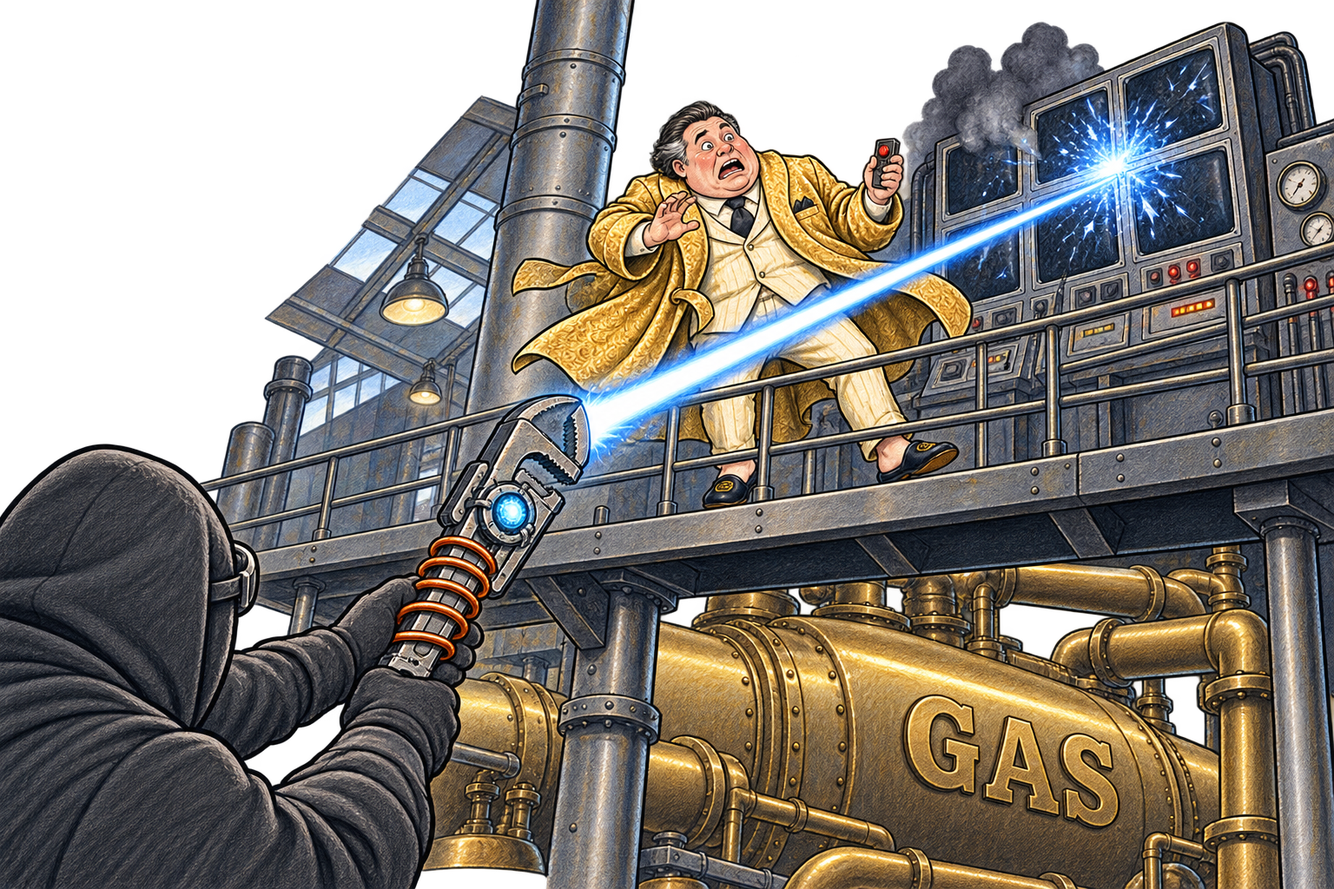
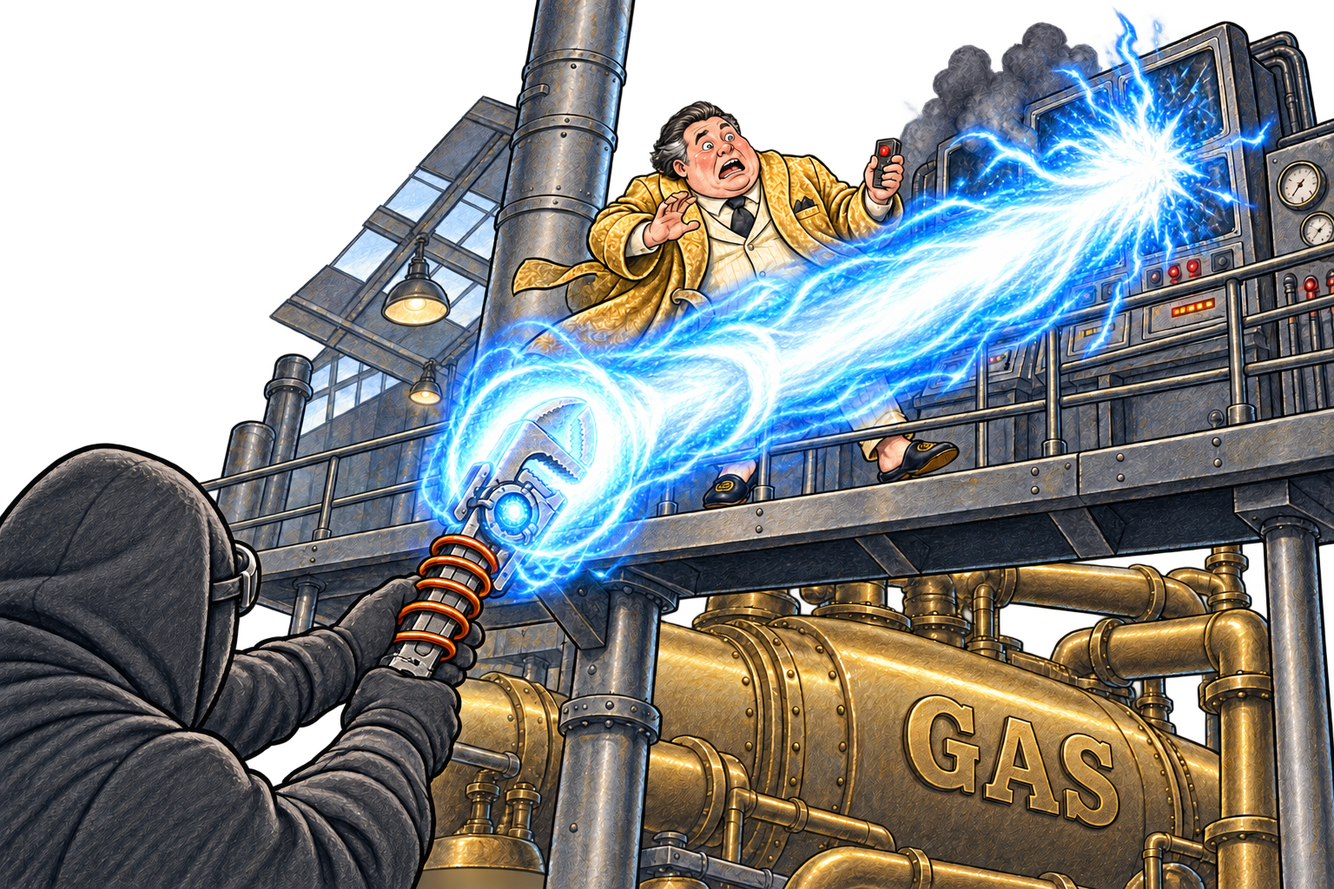
Refine Precision energy blast and record artwork approval

Changed region(s): [[0.0, 0.0, 1.0, 1.0], [0.0625, 0.75, 0.0938, 0.7812], [0.0, 0.5312, 0.0312, 0.5625]]

diff --git a/artwork/tech-hero/2026-09-23/index.html b/artwork/tech-hero/2026-09-23/index.html
@@ -1,5 +1,5 @@
 <!doctype html><html lang="en"><head><meta charset="utf-8"><meta name="viewport" content="width=device-width,initial-scale=1"><title>Tech Hero artwork · Paths of Wonder</title><style>
 *{box-sizing:border-box}html{background:#e5dac4;color:#242a30}body{margin:0;font:17px/1.55 system-ui,-apple-system,sans-serif}header,main,.end{max-width:1480px;margin:auto;padding:32px clamp(16px,4vw,56px)}header{padding-bottom:12px}h1,h2{font-family:Georgia,serif;line-height:1.15;font-weight:500}h1{font-size:clamp(32px,5vw,54px);margin:8px 0 20px}h2{font-size:28px;margin:8px 0}.intro{max-width:830px}.eyebrow,.label span{font-size:13px;letter-spacing:.06em;text-transform:uppercase;color:#635334}a{color:#314e46;text-underline-offset:4px}nav,.controls{display:flex;flex-wrap:wrap;gap:8px;margin:20px 0}nav a,button,footer a{min-height:44px;display:inline-flex;align-items:center;padding:9px 13px;border-radius:8px}nav a,button{border:1px solid #b6a88d;text-decoration:none;background:#f5efdf;font:inherit;color:inherit;cursor:pointer}button[aria-pressed=true]{background:#314e46;color:#fff}a:focus-visible,button:focus-visible{outline:3px solid #96612b;outline-offset:3px}main{display:grid;grid-template-columns:repeat(2,minmax(0,1fr));gap:24px;padding-top:12px}article{background:#f4eddb;border:1px solid #c6b99d;border-radius:10px;overflow:hidden;scroll-margin-top:16px}.label{padding:20px 24px 4px}.label p{font-size:14px;color:#655c48;margin:8px 0}.page{background:#f4eddb;padding:8px 16px}.art{display:block}img{display:block;width:100%;height:auto;max-height:620px;object-fit:contain}.context{display:none;font:20px/1.65 Georgia,serif;padding:8px 18px;white-space:pre-line}.reading .context{display:block}.reading .spot .art{max-width:430px;margin:auto}.large .context{font-size:25px}footer{display:flex;justify-content:space-between;flex-wrap:wrap;padding:8px 12px 14px}.end{color:#635334} @media(max-width:700px){main{grid-template-columns:1fr}.label{padding:18px 18px 4px}.page{padding:8px}.context{padding:8px 14px}img{max-height:none}}@media print{nav,.controls,footer{display:none}main{display:block}article{break-inside:avoid;margin:20px 0}}
-</style></head><body><header id="top"><div class="eyebrow">Paths of Wonder · Tech Hero · Artwork review</div><h1>The Can Opener, illustrated</h1><div class="intro"><p>Seventeen story illustrations and two color tool references. The latest revisions are collected here on warm parchment.</p><p>The hero’s face, skin, and hair stay hidden. The Can Opener’s energy blade is off when carried or used as a tool; the Stompers scene has it lying flat on the workbench.</p><p>These are review drafts. Suggested paragraph placements use your exact current text and do not modify the app or stories.</p></div><div class="controls"><button id="context-toggle" aria-pressed="false">Show story context</button><button id="type-toggle" aria-pressed="false">Larger reading text</button><a href="PLACEMENTS.md">Placement notes</a></div><nav aria-label="Illustrations"><a href="#01-garage-lab">The garage lab</a><a href="#02-old-sandwich">The very old sandwich</a><a href="#03-launcher-mishap">More power. Probably.</a><a href="#04-wheel-pop">THWOOM!</a><a href="#05-shield-cover-me">Shield Cover Me</a><a href="#06-asher-portable">Asher Portable</a><a href="#07-magnet-mishap">Magnet boot testing</a><a href="#08-stompers">The Stompers</a><a href="#09-up-the-wall">Up the wall</a><a href="#10-full-loadout">Full loadout</a><a href="#11-old-cannery">The old cannery</a><a href="#12-under-the-awning">Like a bat</a><a href="#13-max-office">An office fit for Max</a><a href="#14-max-on-stage">Max Grabs takes the stage</a><a href="#15-bot-pileup">Forklifts and rocket feet</a><a href="#16-precision">Precision</a><a href="#17-neighborhood-safe">The good kind of quiet</a><a href="#18-can-opener-active">The Can Opener — active</a><a href="#19-can-opener-tool-mode">The Can Opener — tool mode</a></nav></header><main><article id="01-garage-lab" class="opening"><div class="label"><span>opening</span><h2>The garage lab</h2><p>Scene 001 · Getting Home · after paragraph 7</p></div><div class="page"><div class="context before"><p>The voice comes from your computer: your trusty AI assistant and friend, Asher.</p></div><a class="art" href="01-garage-lab.png" aria-label="Open full-size The garage lab"><img src="01-garage-lab.png" alt="A garage workbench filled with tools, salvaged parts, a backpack, and Asher’s computer." loading="lazy"></a><div class="context after"><p>“Well, Asher, I got some storage drives, scrap metal I can melt down for other uses, a few chips, and the real win here…”</p></div></div><footer><a href="01-garage-lab.png" download>Download PNG</a><a href="#top">Back to top</a></footer></article><article id="02-old-sandwich" class="spot"><div class="label"><span>spot</span><h2>The very old sandwich</h2><p>Scene 008 · The Axe Blade · after paragraph 4</p></div><div class="page"><div class="context before"><p>The bot spins around, confused, and the cabinet door on its belly flaps open. A screwdriver falls out. Then a tape measure. Then a very old sandwich. That’s when you see your opening: a panel on its back, right between the shoulders.</p></div><a class="art" href="02-old-sandwich.png" aria-label="Open full-size The very old sandwich"><img src="02-old-sandwich.png" alt="A moldy sandwich falls from the Construction Bot’s open tool cabinet with a PLOP." loading="lazy"></a><div class="context after"><p>One more swing. The blade cuts the panel wide open, sparks fly, and the bot’s foot thrusters sputter out. It sits down with a big THUNK, like it’s taking a nap.</p></div></div><footer><a href="02-old-sandwich.png" download>Download PNG</a><a href="#top">Back to top</a></footer></article><article id="03-launcher-mishap" class="spot"><div class="label"><span>spot</span><h2>More power. Probably.</h2><p>Scene 021 · More Power · after paragraph 7</p></div><div class="page"><div class="context before"><p>You stand there with an empty wrist brace and your hair sticking straight up.</p></div><a class="art" href="03-launcher-mishap.png" aria-label="Open full-size More power. Probably."><img src="03-launcher-mishap.png" alt="A rock launcher is stuck backward in the wall; a gloved wrist has an empty brace." loading="lazy"></a><div class="context after"><p>“Ok,” you say. “Less power.”</p></div></div><footer><a href="03-launcher-mishap.png" download>Download PNG</a><a href="#top">Back to top</a></footer></article><article id="04-wheel-pop" class="spot"><div class="label"><span>spot</span><h2>THWOOM!</h2><p>Scene 026 · Heavier Than Expected · after paragraph 7</p></div><div class="page"><div class="context before"><p>The rock smashes into the front left wheel, and it pops right off its axle. The Load-Bot tips forward, spins in a slow, sad circle, and crashes onto its face with a BOOM that sets off a car alarm.</p></div><a class="art" href="04-wheel-pop.png" aria-label="Open full-size THWOOM!"><img src="04-wheel-pop.png" alt="The smiling Load-Bot loses a wheel beside the market, with a THWOOM." loading="lazy"></a><div class="context after"><p>It’s down, but it’s not out. Its forklift arms are still flailing, and your coil is empty. But it can’t reach behind itself.</p></div></div><footer><a href="04-wheel-pop.png" download>Download PNG</a><a href="#top">Back to top</a></footer></article><article id="05-shield-cover-me" class="feature"><div class="label"><span>feature</span><h2>Shield Cover Me</h2><p>Scene 033 · Shield Cover Me · after paragraph 3</p></div><div class="page"><div class="context before"><p>The stick skids off the light in a shower of sparks. The shield flickers, but it holds! The bot hits it again, and again, and you push forward behind the shield one step at a time. But you can’t get around it, and you can’t exactly fight with a shield and a thumb.</p></div><a class="art" href="05-shield-cover-me.png" aria-label="Open full-size Shield Cover Me"><img src="05-shield-cover-me.png" alt="A gloved thumb holds a loose shield emitter in place as a Security Bot strikes the blue shield." loading="lazy"></a><div class="context after"><p>“ASHER! SHIELD! COVER ME!”</p></div></div><footer><a href="05-shield-cover-me.png" download>Download PNG</a><a href="#top">Back to top</a></footer></article><article id="06-asher-portable" class="opening"><div class="label"><span>opening</span><h2>Asher Portable</h2><p>Scene 041 · Miniaturizing Asher · after paragraph 6</p></div><div class="page"><div class="context before"><p>“Welcome to the team, Asher Portable.”</p></div><a class="art" href="06-asher-portable.png" aria-label="Open full-size Asher Portable"><img src="06-asher-portable.png" alt="Asher Portable: goggles with a clip-on display, camera, earbud, and yellow-bulb signal booster." loading="lazy"></a><div class="context after"><p>“That is simply a description of what I am, sir.”</p></div></div><footer><a href="06-asher-portable.png" download>Download PNG</a><a href="#top">Back to top</a></footer></article><article id="07-magnet-mishap" class="spot"><div class="label"><span>spot</span><h2>Magnet boot testing</h2><p>Scene 044 · Magnet Boot Testing · after paragraph 9</p></div><div class="page"><div class="context before"><p>A wrench slides across the workbench and sticks to your left ankle. Then a screwdriver. Then a whole handful of bolts.</p></div><a class="art" href="07-magnet-mishap.png" aria-label="Open full-size Magnet boot testing"><img src="07-magnet-mishap.png" alt="Magnet boots stick to the refrigerator and floor plate, with tools clinging to one ankle." loading="lazy"></a><div class="context after"><p>“You are collecting tools at an impressive rate, sir.”</p></div></div><footer><a href="07-magnet-mishap.png" download>Download PNG</a><a href="#top">Back to top</a></footer></article><article id="08-stompers" class="feature"><div class="label"><span>feature</span><h2>The Stompers</h2><p>Scene 045 · The Stompers · after paragraph 9</p></div><div class="page"><div class="context before"><p>“The Stompers.”</p></div><a class="art" href="08-stompers.png" aria-label="Open full-size The Stompers"><img src="08-stompers.png" alt="The fully covered hero bounces toward the workbench; the powered-down Can Opener lies flat on the wood." loading="lazy"></a><div class="context after"><p>A pause.</p></div></div><footer><a href="08-stompers.png" download>Download PNG</a><a href="#top">Back to top</a></footer></article><article id="09-up-the-wall" class="spot"><div class="label"><span>spot</span><h2>Up the wall</h2><p>Scene 047 · Up the Wall · after paragraph 7</p></div><div class="page"><div class="context before"><p>Clunk. Clunk. Clunk. You walk up the wall one heavy step at a time, staying in the corner where the bot can’t lean out far enough to aim at you. It knows you’re out there somewhere, so it keeps zapping the mailbox just in case.</p></div><a class="art" href="09-up-the-wall.png" aria-label="Open full-size Up the wall"><img src="09-up-the-wall.png" alt="The fully covered hero climbs a steel wall using magnetic boots, with the inactive wrench on their belt." loading="lazy"></a><div class="context after"><p>You reach the top and peek over the edge. The bot has its back to you, skate wheels locked, leaning out over the front of the roof.</p></div></div><footer><a href="09-up-the-wall.png" download>Download PNG</a><a href="#top">Back to top</a></footer></article><article id="10-full-loadout" class="feature"><div class="label"><span>feature</span><h2>Full loadout</h2><p>Scene 049 · Full Loadout · after paragraph 7</p></div><div class="page"><div class="context before"><p>You look out over {world_name} from the roof. The Can Opener, The Wrist Wrock-It, Shield Cover Me, Asher Portable, The Stompers…every single one of them got you up here.</p></div><a class="art" href="10-full-loadout.png" aria-label="Open full-size Full loadout"><img src="10-full-loadout.png" alt="The fully covered hero rests above the neighborhood with all their inventions and a blue-eyed Security Bot." loading="lazy"></a><div class="context after"><p>The bot’s visor goes dark.</p></div></div><footer><a href="10-full-loadout.png" download>Download PNG</a><a href="#top">Back to top</a></footer></article><article id="11-old-cannery" class="feature"><div class="label"><span>feature</span><h2>The old cannery</h2><p>Scene 053 · A Destination · after paragraph 6</p></div><div class="page"><div class="context before"><p>GRABS AWESOME STRUCTURES. MAKING YOUR NEIGHBORHOOD MINE! The word “MINE” has been crossed out by hand, and “BETTER” is written above it. Under that, in gold letters two feet tall: GAS. WE BLOW YOU AWAY!</p></div><a class="art" href="11-old-cannery.png" aria-label="Open full-size The old cannery"><img src="11-old-cannery.png" alt="The fenced cannery has a rooftop antenna, trucks of broken robots, and gold GAS signs." loading="lazy"></a><div class="context after"><p>You stare at it for a long moment.</p></div></div><footer><a href="11-old-cannery.png" download>Download PNG</a><a href="#top">Back to top</a></footer></article><article id="12-under-the-awning" class="spot"><div class="label"><span>spot</span><h2>Like a bat</h2><p>Scene 054 · Drone Spotted · after paragraph 11</p></div><div class="page"><div class="context before"><p>You catch it with two fingers. Way, WAY too close.</p></div><a class="art" href="12-under-the-awning.png" aria-label="Open full-size Like a bat"><img src="12-under-the-awning.png" alt="The fully covered hero uses magnetic boots beneath an awning as a surveillance drone passes." loading="lazy"></a><div class="context after"><p>So it isn’t just a signal. Somebody is watching the whole neighborhood…and now you know his name.</p></div></div><footer><a href="12-under-the-awning.png" download>Download PNG</a><a href="#top">Back to top</a></footer></article><article id="13-max-office" class="feature"><div class="label"><span>feature</span><h2>An office fit for Max</h2><p>Scene 056 · The Side Window · after paragraph 6</p></div><div class="page"><div class="context before"><p>“Sir, there is a computer on that desk, and it is unlocked. There is a sticky note on the screen. It says ‘Password: password.’”</p></div><a class="art" href="13-max-office.png" aria-label="Open full-size An office fit for Max"><img src="13-max-office.png" alt="Max’s oversized office has a painting of him shaking hands with himself and a password note." loading="lazy"></a><div class="context after"><p>“He didn’t even need it. He left himself logged in.”</p></div></div><footer><a href="13-max-office.png" download>Download PNG</a><a href="#top">Back to top</a></footer></article><article id="14-max-on-stage" class="feature"><div class="label"><span>feature</span><h2>Max Grabs takes the stage</h2><p>Scene 058 · The Man in the Shiny Suit · after paragraph 21</p></div><div class="page"><div class="context before"><p>Standing behind the stage, still as statues, are two Security Bots with steady red eyes. One of them is giving the crowd a thumbs-up.</p></div><a class="art" href="14-max-on-stage.png" aria-label="Open full-size Max Grabs takes the stage"><img src="14-max-on-stage.png" alt="Max Grabs grins on a stage with gold balloons, flying note cards, and Security Bots." loading="lazy"></a><div class="context after"><p>“That is him, sir,” Asher says in your ear.</p></div></div><footer><a href="14-max-on-stage.png" download>Download PNG</a><a href="#top">Back to top</a></footer></article><article id="15-bot-pileup" class="spot"><div class="label"><span>spot</span><h2>Forklifts and rocket feet</h2><p>Scene 060 · The Front Gate · after paragraph 7</p></div><div class="page"><div class="context before"><p>You pop one panel. You pop the other. Pull. Pull. Both sets of eyes fade to soft blue.</p></div><a class="art" href="15-bot-pileup.png" aria-label="Open full-size Forklifts and rocket feet"><img src="15-bot-pileup.png" alt="A Load-Bot and Construction Bot are tangled in a heap, their eyes now blue." loading="lazy"></a><div class="context after"><p>“Sorry, guys,” you say, and you mean it. “I’ll be back for you.”</p></div></div><footer><a href="15-bot-pileup.png" download>Download PNG</a><a href="#top">Back to top</a></footer></article><article id="16-precision" class="feature"><div class="label"><span>feature</span><h2>Precision</h2><p>Scene 066 · Precision · after paragraph 3</p></div><div class="page"><div class="context before"><p>Every terminal goes dark at once. The Robot Improver 3 makes a sound like a very large balloon letting go, and its lights go out row by row. On the roof, the antenna stops humming.</p></div><a class="art" href="16-precision.png" aria-label="Open full-size Precision"><img src="16-precision.png" alt="A precise blue-white discharge passes Max and strikes the cannery’s control terminals." loading="lazy"></a><div class="context after"><p>And all across {world_name}, in alleys and empty lots and the middle of Elm Street, every haywire robot slows down, lowers its arms, and stops. Hundreds of flickering red lights fade to a soft, calm blue.</p></div></div><footer><a href="16-precision.png" download>Download PNG</a><a href="#top">Back to top</a></footer></article><article id="17-neighborhood-safe" class="feature"><div class="label"><span>feature</span><h2>The good kind of quiet</h2><p>Scene 068 · Neighborhood Safe · after paragraph 5</p></div><div class="page"><div class="context before"><p>You nod back, and you keep walking.</p></div><a class="art" href="17-neighborhood-safe.png" aria-label="Open full-size The good kind of quiet"><img src="17-neighborhood-safe.png" alt="A child pats a peaceful robot, Mrs. Ruiz salutes, and the fully covered hero walks home." loading="lazy"></a><div class="context after"><p>You pass the top of Main Street. Mr. Lin’s bench is still gone. There are four bolts in the sidewalk where it used to be, and nothing else.</p></div></div><footer><a href="17-neighborhood-safe.png" download>Download PNG</a><a href="#top">Back to top</a></footer></article><article id="18-can-opener-active" class="reference"><div class="label"><span>reference</span><h2>The Can Opener — active</h2><p>Scene 005 · Building The Can Opener · after paragraph 11</p></div><div class="page"><div class="context before"><p>The wrench head shifts with a sharp mechanical click, and a crackling energy blade snaps out along the side of the head like an axe made of lightning.</p></div><a class="art" href="18-can-opener-active.png" aria-label="Open full-size The Can Opener — active"><img src="18-can-opener-active.png" alt="The Can Opener in active mode: steel wrench, copper coils, a blue power core, and an energy axe blade." loading="lazy"></a><div class="context after"><p>You stare at it.</p></div></div><footer><a href="18-can-opener-active.png" download>Download PNG</a><a href="#top">Back to top</a></footer></article><article id="19-can-opener-tool-mode" class="reference"><div class="label"><span>reference</span><h2>The Can Opener — tool mode</h2><p>Continuity reference · powered-down tool</p></div><div class="page"><a class="art" href="19-can-opener-tool-mode.png" aria-label="Open full-size The Can Opener — tool mode"><img src="19-can-opener-tool-mode.png" alt="The Can Opener in tool mode: steel jaws, copper coils, a dark core, and no deployed blade." loading="lazy"></a></div><footer><a href="19-can-opener-tool-mode.png" download>Download PNG</a><a href="#top">Back to top</a></footer></article></main><div class="end">Tap an image for its full-size PNG. <a href="README.md">Production notes</a> · <a href="prompts.json">Prompt set</a></div><script>
+</style></head><body><header id="top"><div class="eyebrow">Paths of Wonder · Tech Hero · Artwork review</div><h1>The Can Opener, illustrated</h1><div class="intro"><p>Seventeen story illustrations and two color tool references. The latest revisions are collected here on warm parchment.</p><p>The hero’s face, skin, and hair stay hidden. The Can Opener’s energy blade is off when carried or used as a tool; the Stompers scene has it lying flat on the workbench.</p><p>These are review drafts. Suggested paragraph placements use your exact current text and do not modify the app or stories.</p></div><div class="controls"><button id="context-toggle" aria-pressed="false">Show story context</button><button id="type-toggle" aria-pressed="false">Larger reading text</button><a href="PLACEMENTS.md">Placement notes</a></div><nav aria-label="Illustrations"><a href="#01-garage-lab">The garage lab</a><a href="#02-old-sandwich">The very old sandwich</a><a href="#03-launcher-mishap">More power. Probably.</a><a href="#04-wheel-pop">THWOOM!</a><a href="#05-shield-cover-me">Shield Cover Me</a><a href="#06-asher-portable">Asher Portable</a><a href="#07-magnet-mishap">Magnet boot testing</a><a href="#08-stompers">The Stompers</a><a href="#09-up-the-wall">Up the wall</a><a href="#10-full-loadout">Full loadout</a><a href="#11-old-cannery">The old cannery</a><a href="#12-under-the-awning">Like a bat</a><a href="#13-max-office">An office fit for Max</a><a href="#14-max-on-stage">Max Grabs takes the stage</a><a href="#15-bot-pileup">Forklifts and rocket feet</a><a href="#16-precision">Precision</a><a href="#17-neighborhood-safe">The good kind of quiet</a><a href="#18-can-opener-active">The Can Opener — active</a><a href="#19-can-opener-tool-mode">The Can Opener — tool mode</a></nav></header><main><article id="01-garage-lab" class="opening"><div class="label"><span>opening</span><h2>The garage lab</h2><p>Scene 001 · Getting Home · after paragraph 7</p></div><div class="page"><div class="context before"><p>The voice comes from your computer: your trusty AI assistant and friend, Asher.</p></div><a class="art" href="01-garage-lab.png" aria-label="Open full-size The garage lab"><img src="01-garage-lab.png" alt="A garage workbench filled with tools, salvaged parts, a backpack, and Asher’s computer." loading="lazy"></a><div class="context after"><p>“Well, Asher, I got some storage drives, scrap metal I can melt down for other uses, a few chips, and the real win here…”</p></div></div><footer><a href="01-garage-lab.png" download>Download PNG</a><a href="#top">Back to top</a></footer></article><article id="02-old-sandwich" class="spot"><div class="label"><span>spot</span><h2>The very old sandwich</h2><p>Scene 008 · The Axe Blade · after paragraph 4</p></div><div class="page"><div class="context before"><p>The bot spins around, confused, and the cabinet door on its belly flaps open. A screwdriver falls out. Then a tape measure. Then a very old sandwich. That’s when you see your opening: a panel on its back, right between the shoulders.</p></div><a class="art" href="02-old-sandwich.png" aria-label="Open full-size The very old sandwich"><img src="02-old-sandwich.png" alt="A moldy sandwich falls from the Construction Bot’s open tool cabinet with a PLOP." loading="lazy"></a><div class="context after"><p>One more swing. The blade cuts the panel wide open, sparks fly, and the bot’s foot thrusters sputter out. It sits down with a big THUNK, like it’s taking a nap.</p></div></div><footer><a href="02-old-sandwich.png" download>Download PNG</a><a href="#top">Back to top</a></footer></article><article id="03-launcher-mishap" class="spot"><div class="label"><span>spot</span><h2>More power. Probably.</h2><p>Scene 021 · More Power · after paragraph 7</p></div><div class="page"><div class="context before"><p>You stand there with an empty wrist brace and your hair sticking straight up.</p></div><a class="art" href="03-launcher-mishap.png" aria-label="Open full-size More power. Probably."><img src="03-launcher-mishap.png" alt="A rock launcher is stuck backward in the wall; a gloved wrist has an empty brace." loading="lazy"></a><div class="context after"><p>“Ok,” you say. “Less power.”</p></div></div><footer><a href="03-launcher-mishap.png" download>Download PNG</a><a href="#top">Back to top</a></footer></article><article id="04-wheel-pop" class="spot"><div class="label"><span>spot</span><h2>THWOOM!</h2><p>Scene 026 · Heavier Than Expected · after paragraph 7</p></div><div class="page"><div class="context before"><p>The rock smashes into the front left wheel, and it pops right off its axle. The Load-Bot tips forward, spins in a slow, sad circle, and crashes onto its face with a BOOM that sets off a car alarm.</p></div><a class="art" href="04-wheel-pop.png" aria-label="Open full-size THWOOM!"><img src="04-wheel-pop.png" alt="The smiling Load-Bot loses a wheel beside the market, with a THWOOM." loading="lazy"></a><div class="context after"><p>It’s down, but it’s not out. Its forklift arms are still flailing, and your coil is empty. But it can’t reach behind itself.</p></div></div><footer><a href="04-wheel-pop.png" download>Download PNG</a><a href="#top">Back to top</a></footer></article><article id="05-shield-cover-me" class="feature"><div class="label"><span>feature</span><h2>Shield Cover Me</h2><p>Scene 033 · Shield Cover Me · after paragraph 3</p></div><div class="page"><div class="context before"><p>The stick skids off the light in a shower of sparks. The shield flickers, but it holds! The bot hits it again, and again, and you push forward behind the shield one step at a time. But you can’t get around it, and you can’t exactly fight with a shield and a thumb.</p></div><a class="art" href="05-shield-cover-me.png" aria-label="Open full-size Shield Cover Me"><img src="05-shield-cover-me.png" alt="A gloved thumb holds a loose shield emitter in place as a Security Bot strikes the blue shield." loading="lazy"></a><div class="context after"><p>“ASHER! SHIELD! COVER ME!”</p></div></div><footer><a href="05-shield-cover-me.png" download>Download PNG</a><a href="#top">Back to top</a></footer></article><article id="06-asher-portable" class="opening"><div class="label"><span>opening</span><h2>Asher Portable</h2><p>Scene 041 · Miniaturizing Asher · after paragraph 6</p></div><div class="page"><div class="context before"><p>“Welcome to the team, Asher Portable.”</p></div><a class="art" href="06-asher-portable.png" aria-label="Open full-size Asher Portable"><img src="06-asher-portable.png" alt="Asher Portable: goggles with a clip-on display, camera, earbud, and yellow-bulb signal booster." loading="lazy"></a><div class="context after"><p>“That is simply a description of what I am, sir.”</p></div></div><footer><a href="06-asher-portable.png" download>Download PNG</a><a href="#top">Back to top</a></footer></article><article id="07-magnet-mishap" class="spot"><div class="label"><span>spot</span><h2>Magnet boot testing</h2><p>Scene 044 · Magnet Boot Testing · after paragraph 9</p></div><div class="page"><div class="context before"><p>A wrench slides across the workbench and sticks to your left ankle. Then a screwdriver. Then a whole handful of bolts.</p></div><a class="art" href="07-magnet-mishap.png" aria-label="Open full-size Magnet boot testing"><img src="07-magnet-mishap.png" alt="Magnet boots stick to the refrigerator and floor plate, with tools clinging to one ankle." loading="lazy"></a><div class="context after"><p>“You are collecting tools at an impressive rate, sir.”</p></div></div><footer><a href="07-magnet-mishap.png" download>Download PNG</a><a href="#top">Back to top</a></footer></article><article id="08-stompers" class="feature"><div class="label"><span>feature</span><h2>The Stompers</h2><p>Scene 045 · The Stompers · after paragraph 9</p></div><div class="page"><div class="context before"><p>“The Stompers.”</p></div><a class="art" href="08-stompers.png" aria-label="Open full-size The Stompers"><img src="08-stompers.png" alt="The fully covered hero bounces toward the workbench; the powered-down Can Opener lies flat on the wood." loading="lazy"></a><div class="context after"><p>A pause.</p></div></div><footer><a href="08-stompers.png" download>Download PNG</a><a href="#top">Back to top</a></footer></article><article id="09-up-the-wall" class="spot"><div class="label"><span>spot</span><h2>Up the wall</h2><p>Scene 047 · Up the Wall · after paragraph 7</p></div><div class="page"><div class="context before"><p>Clunk. Clunk. Clunk. You walk up the wall one heavy step at a time, staying in the corner where the bot can’t lean out far enough to aim at you. It knows you’re out there somewhere, so it keeps zapping the mailbox just in case.</p></div><a class="art" href="09-up-the-wall.png" aria-label="Open full-size Up the wall"><img src="09-up-the-wall.png" alt="The fully covered hero climbs a steel wall using magnetic boots, with the inactive wrench on their belt." loading="lazy"></a><div class="context after"><p>You reach the top and peek over the edge. The bot has its back to you, skate wheels locked, leaning out over the front of the roof.</p></div></div><footer><a href="09-up-the-wall.png" download>Download PNG</a><a href="#top">Back to top</a></footer></article><article id="10-full-loadout" class="feature"><div class="label"><span>feature</span><h2>Full loadout</h2><p>Scene 049 · Full Loadout · after paragraph 7</p></div><div class="page"><div class="context before"><p>You look out over {world_name} from the roof. The Can Opener, The Wrist Wrock-It, Shield Cover Me, Asher Portable, The Stompers…every single one of them got you up here.</p></div><a class="art" href="10-full-loadout.png" aria-label="Open full-size Full loadout"><img src="10-full-loadout.png" alt="The fully covered hero rests above the neighborhood with all their inventions and a blue-eyed Security Bot." loading="lazy"></a><div class="context after"><p>The bot’s visor goes dark.</p></div></div><footer><a href="10-full-loadout.png" download>Download PNG</a><a href="#top">Back to top</a></footer></article><article id="11-old-cannery" class="feature"><div class="label"><span>feature</span><h2>The old cannery</h2><p>Scene 053 · A Destination · after paragraph 6</p></div><div class="page"><div class="context before"><p>GRABS AWESOME STRUCTURES. MAKING YOUR NEIGHBORHOOD MINE! The word “MINE” has been crossed out by hand, and “BETTER” is written above it. Under that, in gold letters two feet tall: GAS. WE BLOW YOU AWAY!</p></div><a class="art" href="11-old-cannery.png" aria-label="Open full-size The old cannery"><img src="11-old-cannery.png" alt="The fenced cannery has a rooftop antenna, trucks of broken robots, and gold GAS signs." loading="lazy"></a><div class="context after"><p>You stare at it for a long moment.</p></div></div><footer><a href="11-old-cannery.png" download>Download PNG</a><a href="#top">Back to top</a></footer></article><article id="12-under-the-awning" class="spot"><div class="label"><span>spot</span><h2>Like a bat</h2><p>Scene 054 · Drone Spotted · after paragraph 11</p></div><div class="page"><div class="context before"><p>You catch it with two fingers. Way, WAY too close.</p></div><a class="art" href="12-under-the-awning.png" aria-label="Open full-size Like a bat"><img src="12-under-the-awning.png" alt="The fully covered hero uses magnetic boots beneath an awning as a surveillance drone passes." loading="lazy"></a><div class="context after"><p>So it isn’t just a signal. Somebody is watching the whole neighborhood…and now you know his name.</p></div></div><footer><a href="12-under-the-awning.png" download>Download PNG</a><a href="#top">Back to top</a></footer></article><article id="13-max-office" class="feature"><div class="label"><span>feature</span><h2>An office fit for Max</h2><p>Scene 056 · The Side Window · after paragraph 6</p></div><div class="page"><div class="context before"><p>“Sir, there is a computer on that desk, and it is unlocked. There is a sticky note on the screen. It says ‘Password: password.’”</p></div><a class="art" href="13-max-office.png" aria-label="Open full-size An office fit for Max"><img src="13-max-office.png" alt="Max’s oversized office has a painting of him shaking hands with himself and a password note." loading="lazy"></a><div class="context after"><p>“He didn’t even need it. He left himself logged in.”</p></div></div><footer><a href="13-max-office.png" download>Download PNG</a><a href="#top">Back to top</a></footer></article><article id="14-max-on-stage" class="feature"><div class="label"><span>feature</span><h2>Max Grabs takes the stage</h2><p>Scene 058 · The Man in the Shiny Suit · after paragraph 21</p></div><div class="page"><div class="context before"><p>Standing behind the stage, still as statues, are two Security Bots with steady red eyes. One of them is giving the crowd a thumbs-up.</p></div><a class="art" href="14-max-on-stage.png" aria-label="Open full-size Max Grabs takes the stage"><img src="14-max-on-stage.png" alt="Max Grabs grins on a stage with gold balloons, flying note cards, and Security Bots." loading="lazy"></a><div class="context after"><p>“That is him, sir,” Asher says in your ear.</p></div></div><footer><a href="14-max-on-stage.png" download>Download PNG</a><a href="#top">Back to top</a></footer></article><article id="15-bot-pileup" class="spot"><div class="label"><span>spot</span><h2>Forklifts and rocket feet</h2><p>Scene 060 · The Front Gate · after paragraph 7</p></div><div class="page"><div class="context before"><p>You pop one panel. You pop the other. Pull. Pull. Both sets of eyes fade to soft blue.</p></div><a class="art" href="15-bot-pileup.png" aria-label="Open full-size Forklifts and rocket feet"><img src="15-bot-pileup.png" alt="A Load-Bot and Construction Bot are tangled in a heap, their eyes now blue." loading="lazy"></a><div class="context after"><p>“Sorry, guys,” you say, and you mean it. “I’ll be back for you.”</p></div></div><footer><a href="15-bot-pileup.png" download>Download PNG</a><a href="#top">Back to top</a></footer></article><article id="16-precision" class="feature"><div class="label"><span>feature</span><h2>Precision</h2><p>Scene 066 · Precision · after paragraph 3</p></div><div class="page"><div class="context before"><p>Every terminal goes dark at once. The Robot Improver 3 makes a sound like a very large balloon letting go, and its lights go out row by row. On the roof, the antenna stops humming.</p></div><a class="art" href="16-precision.png?v=2" aria-label="Open full-size Precision"><img src="16-precision.png?v=2" alt="A precise blue-white discharge passes Max and strikes the cannery’s control terminals." loading="lazy"></a><div class="context after"><p>And all across {world_name}, in alleys and empty lots and the middle of Elm Street, every haywire robot slows down, lowers its arms, and stops. Hundreds of flickering red lights fade to a soft, calm blue.</p></div></div><footer><a href="16-precision.png?v=2" download>Download PNG</a><a href="#top">Back to top</a></footer></article><article id="17-neighborhood-safe" class="feature"><div class="label"><span>feature</span><h2>The good kind of quiet</h2><p>Scene 068 · Neighborhood Safe · after paragraph 5</p></div><div class="page"><div class="context before"><p>You nod back, and you keep walking.</p></div><a class="art" href="17-neighborhood-safe.png" aria-label="Open full-size The good kind of quiet"><img src="17-neighborhood-safe.png" alt="A child pats a peaceful robot, Mrs. Ruiz salutes, and the fully covered hero walks home." loading="lazy"></a><div class="context after"><p>You pass the top of Main Street. Mr. Lin’s bench is still gone. There are four bolts in the sidewalk where it used to be, and nothing else.</p></div></div><footer><a href="17-neighborhood-safe.png" download>Download PNG</a><a href="#top">Back to top</a></footer></article><article id="18-can-opener-active" class="reference"><div class="label"><span>reference</span><h2>The Can Opener — active</h2><p>Scene 005 · Building The Can Opener · after paragraph 11</p></div><div class="page"><div class="context before"><p>The wrench head shifts with a sharp mechanical click, and a crackling energy blade snaps out along the side of the head like an axe made of lightning.</p></div><a class="art" href="18-can-opener-active.png" aria-label="Open full-size The Can Opener — active"><img src="18-can-opener-active.png" alt="The Can Opener in active mode: steel wrench, copper coils, a blue power core, and an energy axe blade." loading="lazy"></a><div class="context after"><p>You stare at it.</p></div></div><footer><a href="18-can-opener-active.png" download>Download PNG</a><a href="#top">Back to top</a></footer></article><article id="19-can-opener-tool-mode" class="reference"><div class="label"><span>reference</span><h2>The Can Opener — tool mode</h2><p>Continuity reference · powered-down tool</p></div><div class="page"><a class="art" href="19-can-opener-tool-mode.png" aria-label="Open full-size The Can Opener — tool mode"><img src="19-can-opener-tool-mode.png" alt="The Can Opener in tool mode: steel jaws, copper coils, a dark core, and no deployed blade." loading="lazy"></a></div><footer><a href="19-can-opener-tool-mode.png" download>Download PNG</a><a href="#top">Back to top</a></footer></article></main><div class="end">Tap an image for its full-size PNG. <a href="README.md">Production notes</a> · <a href="prompts.json">Prompt set</a></div><script>
 for(const [id,cls] of [['context-toggle','reading'],['type-toggle','large']])document.getElementById(id).addEventListener('click',e=>{const enabled=document.body.classList.toggle(cls);e.currentTarget.setAttribute('aria-pressed',String(enabled));});
 </script></body></html>

diff --git a/artwork/tech-hero/2026-09-23/README.md b/artwork/tech-hero/2026-09-23/README.md
@@ -28,8 +28,10 @@ The documents were read as references. Their suggested app schemas, unlock scree
 - The Load-Bot's market readout matches the live story's 94%.
 - Asher Portable's display is over the wearer's right lens.
 
+- Precision now has a glowing aura around the entire tool head and a broad, surging blue-white energy blast, per Jeff’s revision. All illustrations, including the revised Precision, were approved.
+
 ## Status and verification
 
-These are review assets, not an app deployment. Existing story data, choices, IDs, and installed app artwork are unchanged. The source excerpts shown by the gallery are copied directly from the current story without rewriting.
+These are approved artwork assets, not an app deployment. Existing story data, choices, IDs, and installed app artwork are unchanged. The source excerpts shown by the gallery are copied directly from the current story without rewriting.
 
 All 19 deliverables are original-resolution PNGs with genuine alpha transparency, verified after generation. The final files are copied byte-for-byte from their selected generated outputs. Exact paragraph anchors, gallery file links, and image hashes are checked. The gallery's browser rendering was not automatically inspected because browser policy blocks local file navigation; its source and assets were checked directly.
